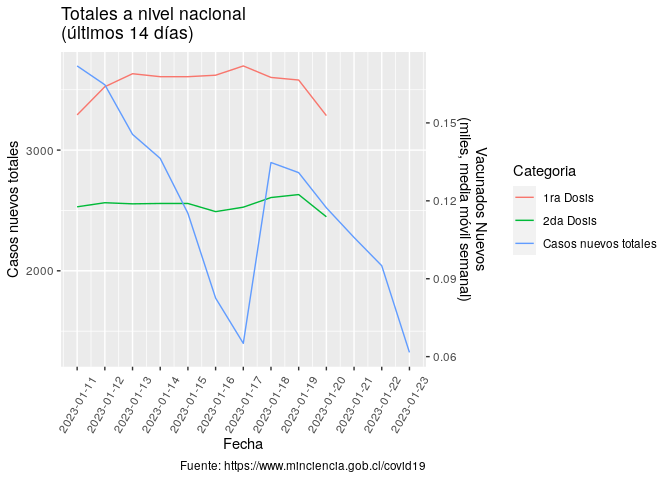
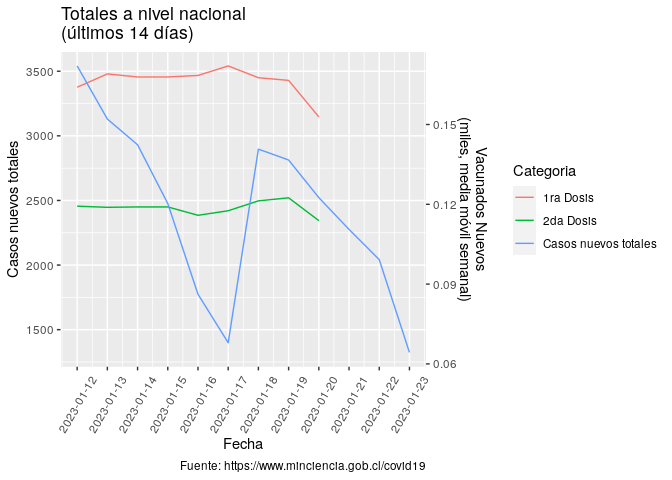
Re-build Rmarkdown files

diff --git a/README.md b/README.md
@@ -3,7 +3,7 @@
 
 Ejemplo de uso de total\_casos de COVID recopilados por el Ministerio de
 Ciencia de Chile <https://www.minciencia.gob.cl/covid19>. Última
-actualización: 2023-01-24
+actualización: 2023-01-25
 
 ## Visualización desde el comienzo de la pandemia
 
